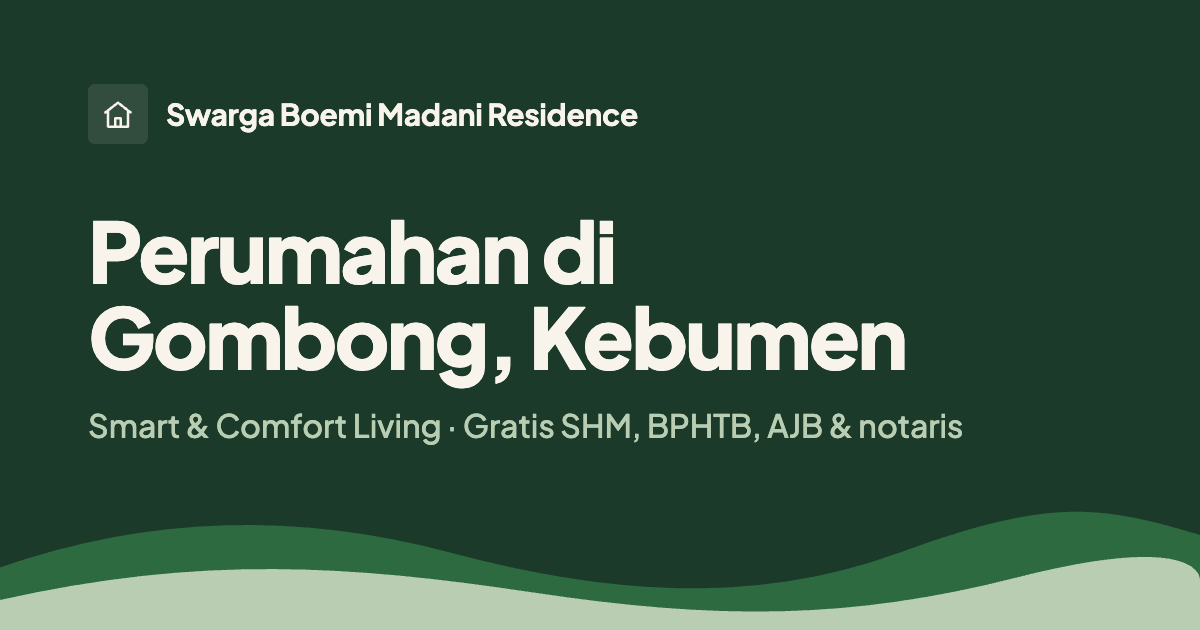
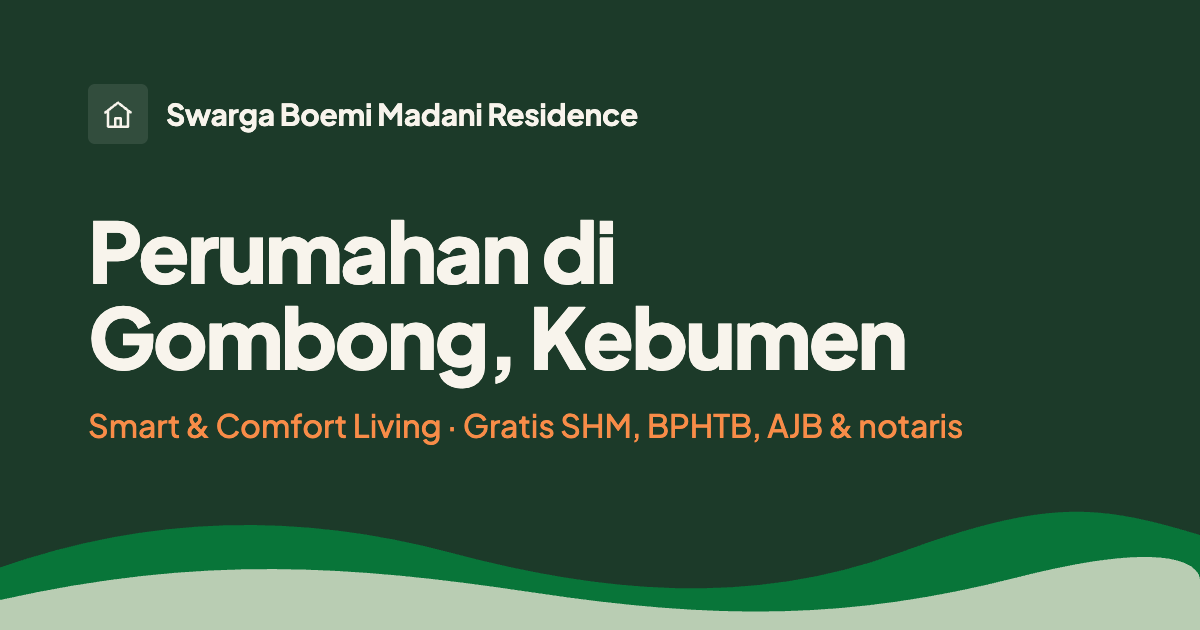
feat: apply client discovery data
- Brand palette from the logo (green #087c3c, roof orange #f88c48), AA-safe shades
- Buying flow section on /tipe-rumah (8 steps from discovery answers)
- Founder on /tentang; profile mentions ruko and construction in several cities
- Seed: email, Instagram, TikTok; OG image in new colors

Changed region(s): [[0.0, 0.8143, 1.0, 0.9952], [0.0617, 0.6333, 0.8017, 0.7238]]

diff --git a/src/styles/global.css b/src/styles/global.css
@@ -2,16 +2,20 @@
 @import "@fontsource-variable/plus-jakarta-sans";
 
 @theme {
-	/* TODO(data): replace with exact hex from the logo file.
-	   Roles: forest = dark anchor, green = links/icons, sage = soft surface,
-	   terracotta (roof tile) = primary CTA only. All text pairs pass WCAG AA. */
-	--color-brand-green: #2e6a3f;
+	/* From the logo: green #087c3c, roof orange #f88c48 (sampled; swap for the source file's hex).
+	   Roles: forest = dark anchor, green = links/icons, sage = soft surface, orange = primary CTA
+	   only. Green and CTA orange are a shade darker than the logo so every text pair passes WCAG AA;
+	   the logo orange itself (orange-light) only sits on forest. */
+	--color-brand-green: #087539;
 	--color-brand-green-dark: #1c3a29;
 	--color-brand-green-soft: #e3ebdf;
 	--color-sage: #b9cdb3;
-	--color-brand-orange: #b5522a;
-	--color-brand-orange-dark: #93411f;
-	--color-brand-orange-soft: #f6e1d6;
+	/* Far hill ridge where a forest band meets the cream page: muted, so it never reads as a stripe. */
+	--color-moss: #2e6a3f;
+	--color-brand-orange: #b9561f;
+	--color-brand-orange-dark: #9a4518;
+	--color-brand-orange-soft: #fbe4d4;
+	--color-brand-orange-light: #f88c48;
 
 	--color-paper: #f8f4ec;
 	--color-sand: #efe7d9;

diff --git a/src/content/tentang.ts b/src/content/tentang.ts
@@ -1,10 +1,12 @@
 export const PROFIL = [
 	"PT. Abyakta Sadawira Bangun Mandiri (PT ASBM) adalah developer perumahan dan kontraktor yang berdiri pada Mei 2022 di Kebumen, Jawa Tengah.",
-	"Swarga Boemi Madani Residence di Gombong adalah proyek perumahan kami. Selain membangun perumahan sendiri, kami juga melayani jasa konstruksi untuk rumah tinggal.",
+	"Swarga Boemi Madani Residence di Gombong adalah proyek perumahan kami: perumahan cluster, ruko, dan fasilitas pendukungnya. Selain membangun perumahan sendiri, kami juga melayani jasa konstruksi untuk pihak lain di beberapa kota.",
 ];
 
-// TODO(data): founder names, roles, and short bio (and photo, if allowed).
-export const PENDIRI: { name: string; role: string; bio?: string }[] = [];
+// TODO(data): short bio (and photo, if allowed).
+export const PENDIRI: { name: string; role: string; bio?: string }[] = [
+	{ name: "Andyka Setyabudi Haryanto, S.T.", role: "Pendiri PT ASBM" },
+];
 
 // TODO(data): what each letter of the CARE values stands for. Section is hidden until filled.
 export const NILAI_CARE: { letter: string; word: string; text: string }[] = [];

diff --git a/src/content/pembelian.ts b/src/content/pembelian.ts
@@ -1,0 +1,21 @@
+// From the client's discovery answers (Oct 2026), question 8.
+// TODO(data): booking fee, partner banks for KPR, cash schemes, and typical duration.
+export const ALUR_BELI = [
+	{
+		title: "Tanya via WhatsApp",
+		text: "Tanyakan tipe, harga, dan sisa unit langsung ke tim marketing.",
+	},
+	{
+		title: "Survei lokasi",
+		text: "Lihat kawasan, unit yang sudah jadi, dan Town Management Office.",
+	},
+	{ title: "Booking", text: "Pilih kavling yang Anda inginkan dan amankan dengan booking." },
+	{
+		title: "KPR atau cash",
+		text: "Proses KPR bank atau pembayaran cash, kami bantu sampai selesai.",
+	},
+	{ title: "Akad jual beli", text: "Ditandatangani di Notaris Maya Dianasari, S.H., Gombong." },
+	{ title: "Pembangunan", text: "Progresnya bisa Anda pantau di halaman Progres." },
+	{ title: "Inspeksi bersama", text: "Rumah dicek bersama Anda sebelum serah terima." },
+	{ title: "Serah terima kunci", text: "Gratis SHM, BPHTB, AJB, balik nama, dan biaya notaris." },
+];

diff --git a/README.md b/README.md
@@ -187,4 +187,5 @@ Search `TODO(data)` for every placeholder. Seed data that is still placeholder (
 - `construction_project`: 2 example entries with `tampilkan: false`.
 - `testimonial`: 1 example entry with `izin_tertulis: false`.
 - `pengaturan`: only WhatsApp and address; email and social links are empty.
-- Brand colors in `src/styles/global.css` are placeholders until the logo hex values arrive.
+- Brand colors in `src/styles/global.css` are sampled from a logo image in the discovery PDF; confirm against
+  the source logo file.
